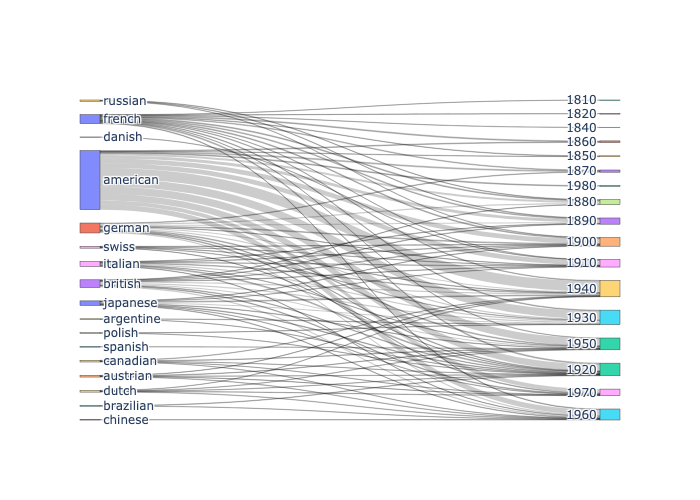
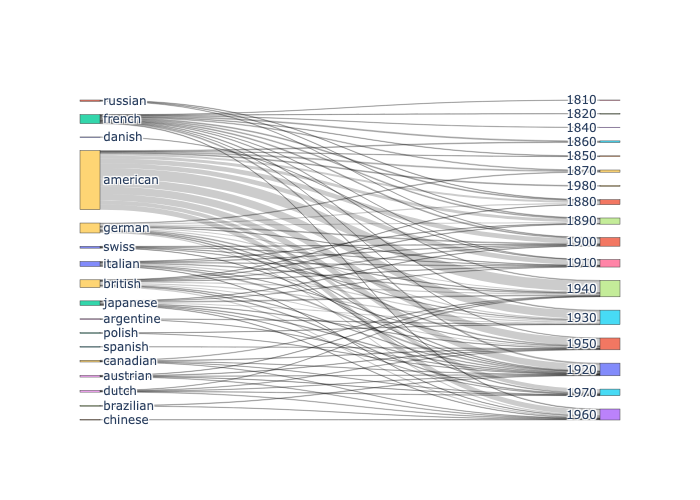
more readable & remove none col

diff --git a/sankey.py b/sankey.py
@@ -1,5 +1,5 @@
-
 """
+Based off class code
 sankey.py: A reusable library for sankey visualizations
 """
 import pandas as pd
@@ -7,12 +7,13 @@ import plotly.graph_objects as go
 
 
 def _group_data(df, src, targ, vals=None):
+    grp = df.groupby([src,targ])
     # group by for each column pair and rename dataframe columns
     if vals:    
-        return df.groupby([src, targ])[vals].sum().reset_index().rename(columns = {src:'source', targ:'target'})
+        return grp[vals].sum().reset_index().rename(columns = {src:'source', targ:'target', vals:'values'})
     else:
         # rename aggregate column to vals=None to remove if statement for vals in make_sankey
-        return df.groupby([src,targ]).size().reset_index().rename(columns = {src:'source', targ:'target', 0: vals})
+        return grp.size().reset_index().rename(columns = {src:'source', targ:'target', 0: 'values'})
     
 
 def _code_mapping(df):
@@ -54,11 +55,11 @@ def make_sankey(input_df, cols, vals=None, **kwargs):
     df, labels = _code_mapping(df)
     
     # kwargs for better looking sankey diagrams, defaults=20
-    df = df.loc[df[vals] >= kwargs.get('min_val', 20)]
+    df = df.loc[df['values'] >= kwargs.get('min_val', 20)]
     pad = kwargs.get('pad', 20)
     
     # build Sankey requisites
-    link = {'source':df['source'], 'target':df['target'], 'value':df[vals]}
+    link = {'source':df['source'], 'target':df['target'], 'value':df['values']}
     node = {'label': labels, 'pad': pad}
     sk = go.Sankey(link=link, node=node)
     fig = go.Figure(sk)

diff --git a/hw1_driver.py b/hw1_driver.py
@@ -1,8 +1,9 @@
+'''
+    driver code for sankey diagrams
+'''
 import pandas as pd
 import sankey as sk
 import itertools
-from plotly.subplots import make_subplots
-
     
 def main():
     # build dataframe with needed info from json file and clean for decades
